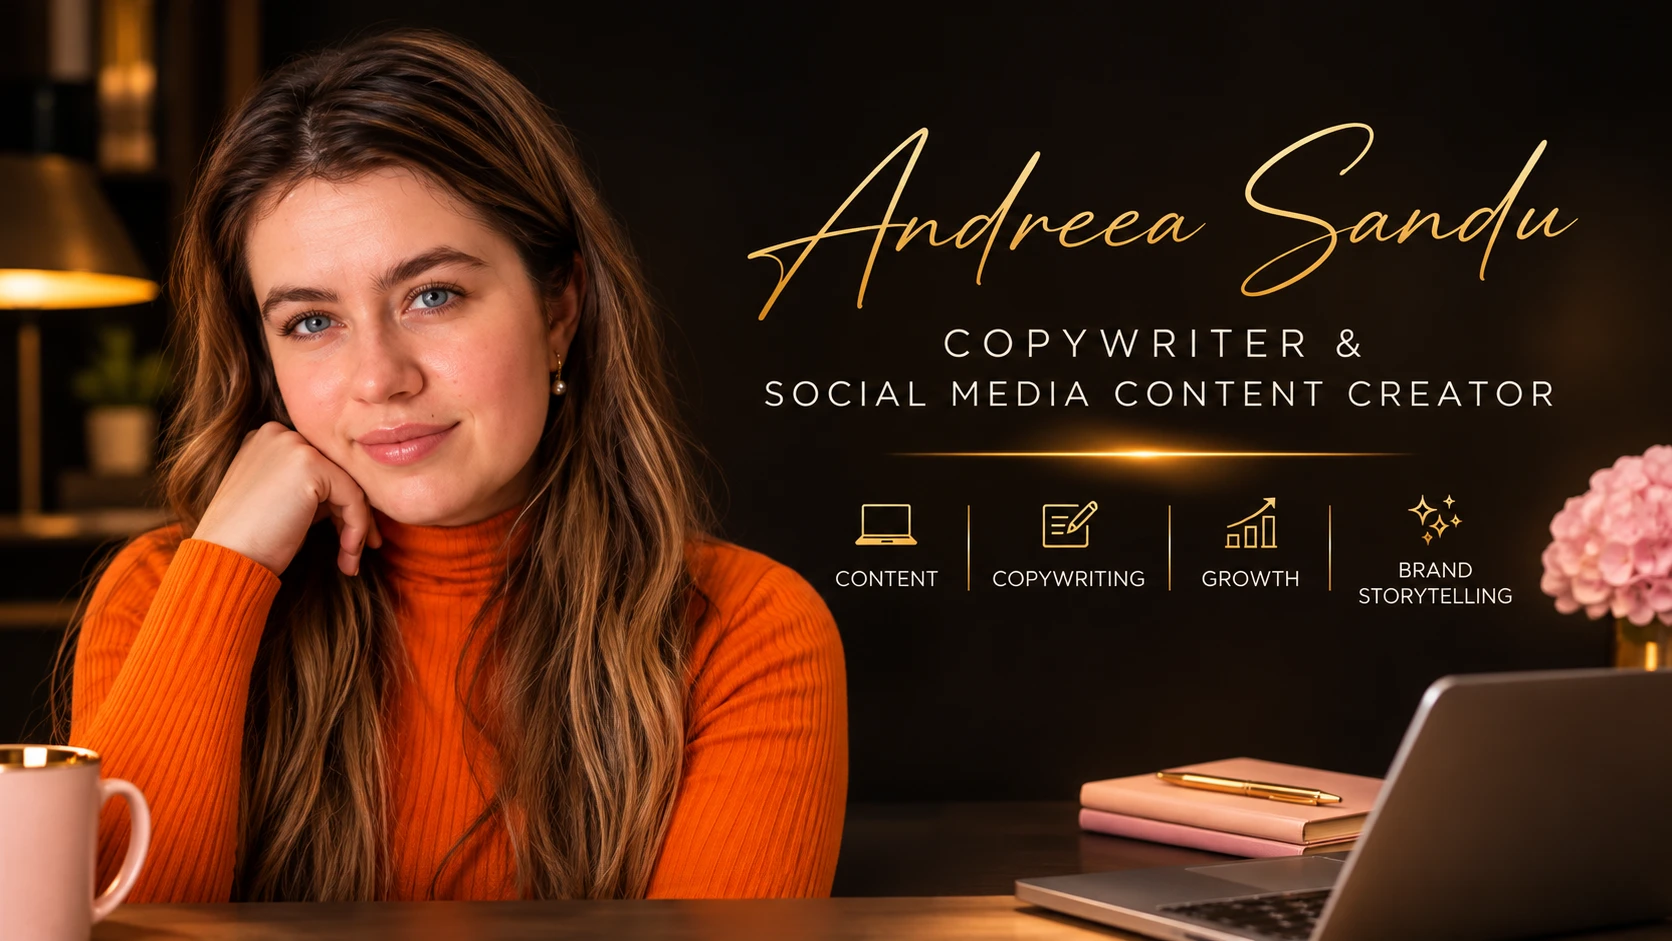
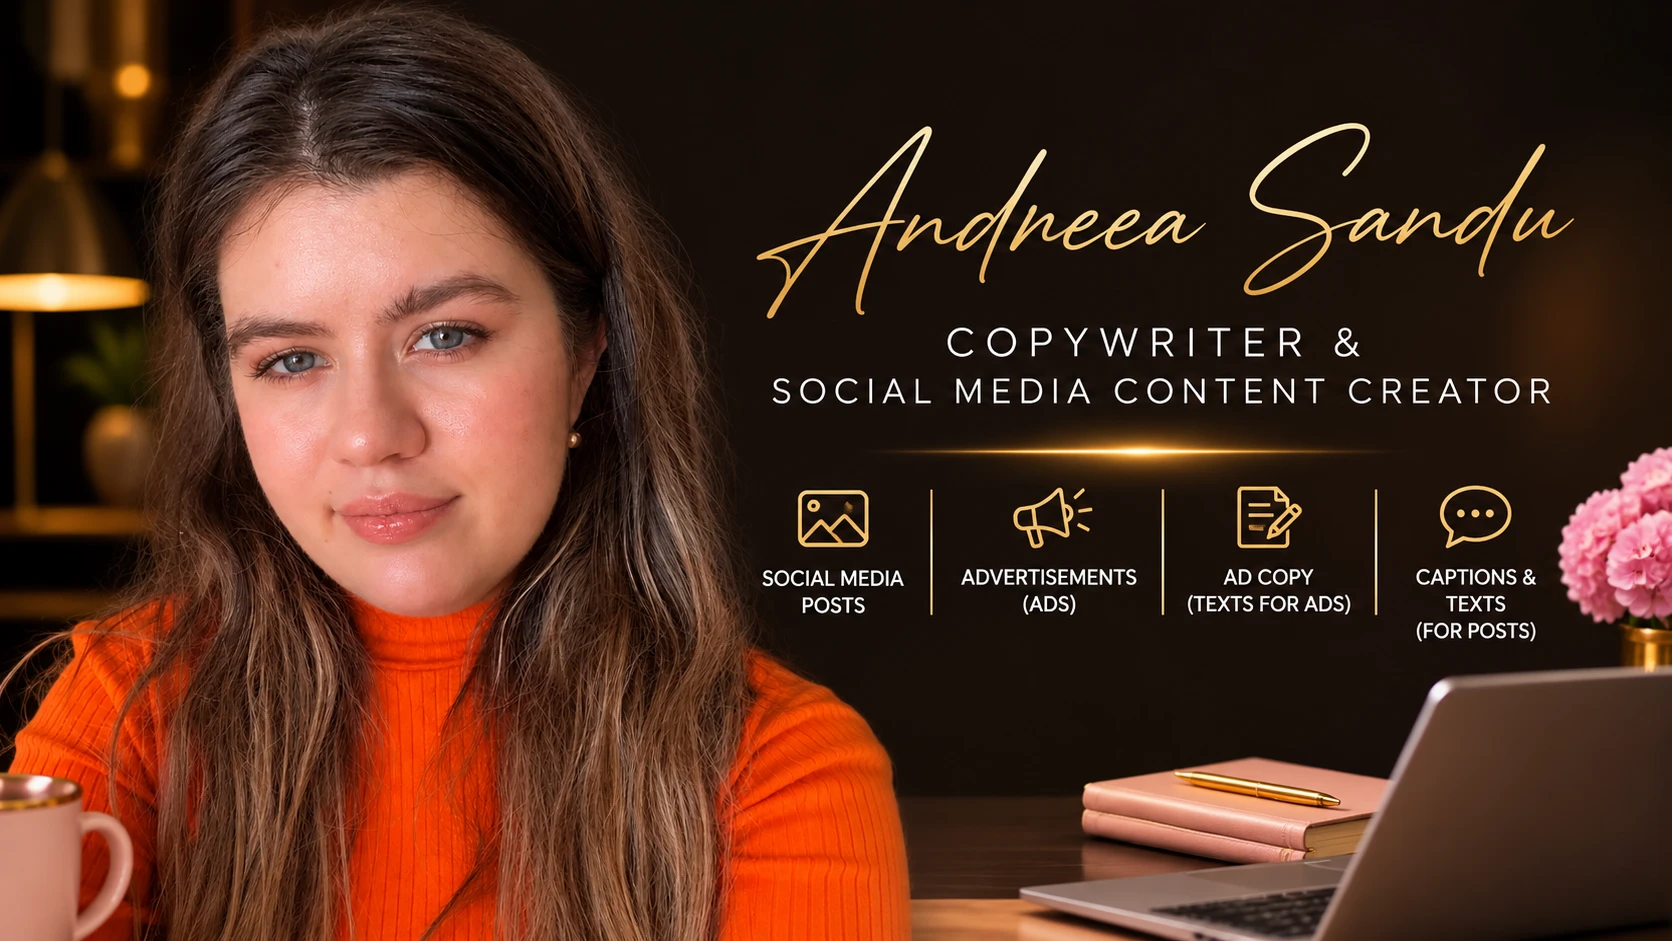
New Home hero image with the services; describe the text in the image for screen readers
Claude-Session: https://claude.ai/code/session_01Gn5nm9WY1abkMyEn3h7JWC

diff --git a/studio/templates/studio/home.html b/studio/templates/studio/home.html
@@ -3,7 +3,7 @@
 
 {% block content %}
 <img class="hero-img" src="{% static 'studio/img/hero-photo.webp' %}" width="1672" height="941"
-     alt="{{ SITE_NAME }} at her desk with a laptop, a notebook and pink flowers">
+     alt="{{ SITE_NAME }}, {{ SITE_TAGLINE }}, at her desk. Services: social media posts, advertisements (ads), ad copy (texts for ads), and captions and texts for posts.">
 
 <section class="pad">
   <div class="wrap hero-copy">

diff --git a/studio/tests.py b/studio/tests.py
@@ -118,6 +118,10 @@ class SiteTests(TestCase):
     def test_home_links_to_full_process(self):
         self.assertContains(self.client.get(reverse("home")), "/services/#how-we-work")
 
+    def test_hero_image_alt_describes_the_text_in_the_image(self):
+        html = self.client.get(reverse("home")).content.decode()
+        self.assertIn("Services: social media posts, advertisements (ads)", html)
+
     def test_contact_page_has_privacy_note(self):
         self.assertContains(self.client.get(reverse("free_sample")), "I use your details only to reply")
 
